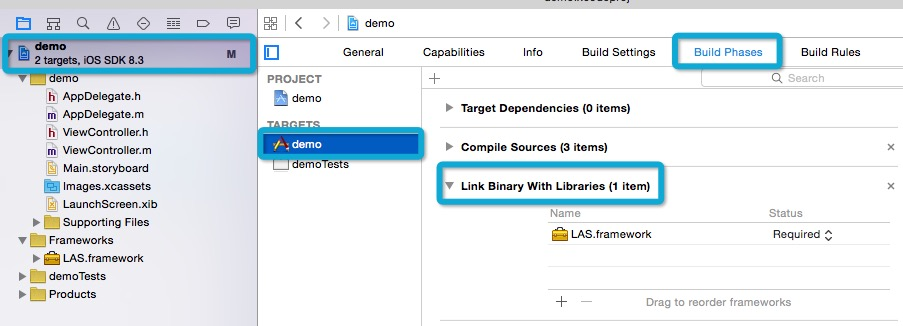
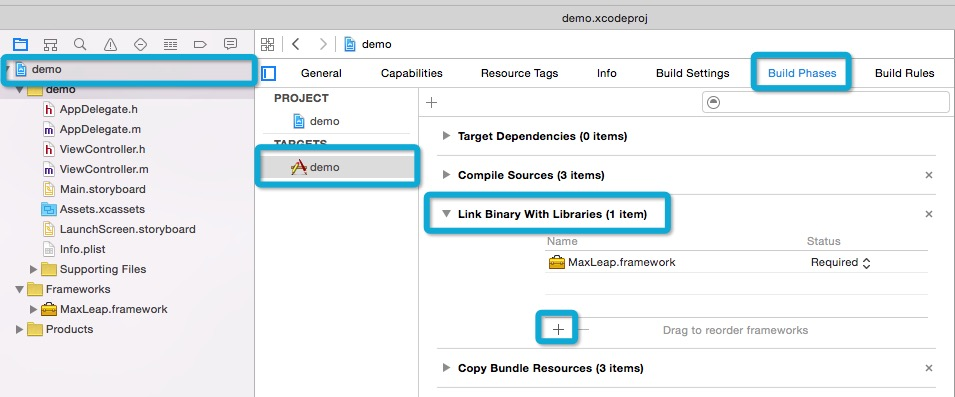
update iOS documents

diff --git a/zh/iOS/Guide/CloudData.md b/zh/iOS/Guide/CloudData.md
@@ -1,4 +1,4 @@
-#云数据
+# 云数据
 
 ## 简介
 
@@ -14,7 +14,7 @@ Cloud Data 将帮助您解决数据库基础设施的构建和维护，从而专
 * 可结合 Cloud Code 服务，实现云端数据的 Hook（详情请移步至[Cloud Code引导](ML_DOCS_GUIDE_LINK_PLACEHOLDER_JAVA)）
 
 ## Cloud Object
-存储在Cloud Data的对象称为`MLObject`，而每个`MLObject`被规划至不同的`class`中（类似“表”的概念)。`MLObject`包含若干键值对，且值为兼容JSON格式的数据。您无需预先指定每个 MLObject包含哪些属性，也无需指定属性值的类型。您可以随时向`MLObject`增加新的属性及对应的值，Cloud Data服务会将其存储至云端。
+存储在 Cloud Data 的对象称为`MLObject`，而每个 `MLObject` 被规划至不同的 `class` 中（类似“表”的概念)。`MLObject` 包含若干键值对，且值为兼容 JSON 格式的数据。您无需预先指定每个 `MLObject` 包含哪些属性，也无需指定属性值的类型。您可以随时向`MLObject`增加新的属性及对应的值，Cloud Data 服务会将其存储至云端。
 
 ### 新建
 假设我们要保存一条数据到`Comment`class，它包含以下属性：
@@ -27,7 +27,7 @@ isRead|false|布尔
 
 我们建议您使用驼峰式命名法来命名类名和字段名（如：NameYourclassesLikeThis, nameYourKeysLikeThis），让您的代码看起来整齐美观。
 
-`MLObject` 接口与 `NSMutableDictionary` 类似。我们有一个类 `MLDataManager`保存、删除 `MLObject`, 和拉取数据。现在我们使用 `MLDataManager` 来保存 `Comment`:
+`MLObject` 接口与 `NSMutableDictionary` 类似，但多了 `saveInBackground` 方法。现在我们保存一条 `Comment`:
 
 ```objective_c
 MLObject *myComment = [MLObject objectWithClassName:@"Comment"];
@@ -52,7 +52,7 @@ createdAt:"2011-06-10T18:33:42Z", updatedAt:"2011-06-10T18:33:42Z"
 
 注意：
 
-* **Comment表合何时创建:** 在运行以上代码时，如果云端（MaxLeap 的服务器，以下简称云端）不存在 Comment 数据表，那么 MaxLeap 将根据您第一次（也就是运行的以上代码）新建的 Comment 对象来创建数据表，并且插入相应数据。
+* **Comment表合何时创建:** 在运行以上代码时，如果云端（MaxLeap 的服务器，以下简称云端）不存在 `Comment` 数据表，那么 MaxLeap 将根据您第一次（也就是运行的以上代码）新建的 Comment 对象来创建数据表，并且插入相应数据。
 * **表中同一属性值类型一致:** 如果云端的这个应用中已经存在名为 `Comment` 的数据表，而且也包括 `content`、`pubUserId`、`isRead` 等属性，那么，新建comment对象时，对应属性的值的数据类型要和创建该属性时一致，否则保存数据将失败。
 * **MLObject是Schemaless的:** 您无需事先指定 `MLObject` 存在哪些键，只需在需要的时候增加键值对，后台便会自动储存它们。
 * **内建的属性:** 每个 MLObject 对象有以下几个保存元数据的属性是不需要开发者指定的。这些属性的创建和更新是由系统自动完成的，请不要在代码里使用这些属性来保存数据。
@@ -232,9 +232,7 @@ MLObject *object = [MLObject objectWithClassName:@"Comment"];
 
 注：MaxLeap Services 是通过 `Pointer` 类型来解决这种数据引用的，并不会将数据 a 在数据 b 的表中再额外存储一份，这也可以保证数据的一致性。
 
-#### 一对多关系
-
-##### 使用 `Pointer` 实现
+#### 使用 `Pointer` 实现
 
 例如：一条微博信息会有多条评论。创建一条微博，并添加一条评论，您可以这样写：
 
@@ -1104,12 +1102,11 @@ MLQuery *query = [MLUser query];
 ```
 
 #####自动创建匿名用户
-在无网络请求的情况下，也可以自动为您创建匿名用户，以便您能在应用程序开启之后立即与您的用户互动。如果您启用在应用程序开启时自动创建匿名用户的功能，则 `[MLUser currentUser]` 将不会为 `nil`。首次保存用户或与该用户相关的任何对象时，将在云中自动创建用户。在此之前，该用户的对象 ID 为 nil。启用自动创建用户功能将使得把数据与您的用户关联变得简单。例如，在您的 `application:didFinishLaunchingWithOptions:` 函数中，您可以写：
+在无网络请求的情况下，也可以自动为您创建匿名用户，以便您能在应用程序开启之后立即与您的用户互动。如果您启用在应用程序开启时自动创建匿名用户的功能，则 `[MLUser currentUser]` 将不会为 `nil`。首次保存用户或与该用户相关的任何对象时，将在云中自动创建用户。在此之前，该用户的对象 ID 为 `nil`。启用自动创建用户功能将使得把数据与您的用户关联变得简单。例如，在您的 `application:didFinishLaunchingWithOptions:` 函数中，您可以写：
 
 ```objective_c
 [MLUser enableAutomaticUser];
 [[MLUser currentUser] incrementKey:@"RunCount"];
-[]
 [[MLUser currentUser] saveInBackgroundWithBlock:^(BOOL succeeded, NSError *error) {
     // Handle success or failure here ...
 }];
@@ -1218,7 +1215,7 @@ FacebookSDK v4.x
 
 MaxLeap 用户可通过以下两种主要方法使用 Facebook：(1) 以 Facebook 用户身份登录（注册），并创建 `MLUser`，或者 (2) 将 Facebook 与已有的 `MLUser` 关联。
 
-####    登录并注册新 MLUser
+#### 登录并注册新 MLUser
 
 `MLUser` 提供一种方法让您的用户可以通过 Facebook 登录或注册。这可以通过采用 `logInWithPermissions:` 方法来完成，例如：
 

diff --git a/zh/iOS/GettingStarted/HelpCenter_ExistingProject.md b/zh/iOS/GettingStarted/HelpCenter_ExistingProject.md
@@ -3,7 +3,7 @@
 
 1. 下载并解压缩 SDK
 
-	请确认您使用的是Xcode最新版本（5.0+），目标平台为iOS 6.0 或者更高版本。
+	请确认您使用的是 Xcode 最新版本（7.0+），目标平台为iOS 6.0 或者更高版本。
 
 	<a class="download-sdk" href="https://raw.githubusercontent.com/LeapAppServices/LAS-SDK-Release/master/iOS/v1.5.0/LASAll-v1.5.0.zip">下载SDK</a>
 
@@ -18,18 +18,18 @@
 
 3. 添加依赖
 
-	点击Targets→应用名→“Build Phases”栏。</br>
-	将“Link Binary With Libraries”如下图展开。
-	
-	<p class="image-wrapper">
-	![add_dependencies](../../../images//add_dependencies.png)
-	
-    确保“Enable Modules (C and Objective-C)” 和 “Link Frameworks Automatically”的生成设置为Yes。
+	确保“Enable Modules (C and Objective-C)” 和 “Link Frameworks Automatically”的生成设置为Yes。
     
     <p class="image-wrapper">
     ![enable_modules](../../../images//enable_modules.png)
+
+	点击 Targets → 应用名 → “Build Phases” 栏。</br>
+	将 “Link Binary With Libraries” 如下图展开。
+	
+	<p class="image-wrapper">
+	![add_dependencies](../../../images//add_dependencies.png)
     
-	点击“Link Binary With Libraries”左下角+号按钮，添加下列框架：
+	点击 “Link Binary With Libraries” 左下角 + 号按钮，添加下列框架：
 	
 	StoreKit.framework</br>
 	MobileCoreServices.framework</br>
@@ -89,9 +89,9 @@
 	}
 	```
 
-	这段代码目的是在云端创建一条类名为 `Person` 的数据。如果云端还没有 `Person` 这个类，则会先创建这个类，然后再插入数据。
+	这段代码目的是在云端创建一条类名为 `People` 的数据。如果云端还没有 `People` 这个类，则会先创建这个类，然后再插入数据。
 
-	运行您的应用。然后可以在 Dev Center -> Data 中看到刚创建的数据。
+	运行您的应用，然后可以在 Dev Center -> Data 中看到刚创建的数据。
 
 	![imgSDKQSTestAddObj](../../../images/imgSDKQSTestAddObj.png)
 

diff --git a/zh/iOS/GettingStarted/ExistingProject.md b/zh/iOS/GettingStarted/ExistingProject.md
@@ -15,17 +15,17 @@
 
 3. 添加依赖
 
-	点击Targets→应用名→“Build Phases”栏。</br>
-	将“Link Binary With Libraries”如下图展开。
+	确保“Enable Modules (C and Objective-C)” 和 “Link Frameworks Automatically”的生成设置为Yes。
+    
+    <p class="image-wrapper">
+    ![enable_modules](../../../images/enable_modules.png)
+
+	点击 Targets → YourAppName → "Build Phases" 栏。</br>
+	展开 “Link Binary With Libraries”，如下图：
 	
 	<p class="image-wrapper">
 	![add_dependencies](../../../images/add_dependencies.png)
 	
-    确保“Enable Modules (C and Objective-C)” 和 “Link Frameworks Automatically”的生成设置为Yes。
-    
-    <p class="image-wrapper">
-    ![enable_modules](../../../images/enable_modules.png)
-    
 	点击“Link Binary With Libraries”左下角+号按钮，添加下列框架：
 	
 	MobileCoreServices.framework</br>
@@ -36,7 +36,7 @@
 
 ## 连接云端应用
 
-打开AppDelegate.m文件，并将如下import添加到文件顶部：
+打开 `AppDelegate.m` 文件，并将如下import添加到文件顶部：
 
 ```objc
 #import <MaxLeap/MaxLeap.h>
@@ -66,12 +66,12 @@
 [MaxLeap setApplicationId:@"your_application_id" clientKey:@"your_client_key"];
 
 // 创建一条数据
-MLObject *testObject = [MLObject objectWithClassName:@"Person"];
+MLObject *testObject = [MLObject objectWithClassName:@"People"];
 testObject[@"Name"] = @"David Wang";
 [testObject saveInBackgroundWithBlock:nil];
 ```
 
-这段代码目的是在云端创建一条类名为 `Person` 的数据。如果云端还没有 `Person` 这个类，则会先创建这个类，然后再插入数据。
+这段代码目的是在云端创建一条类名为 `People` 的数据。如果云端还没有 `People` 这个类，则会先创建这个类，然后再插入数据。
 
 运行您的应用。然后可以在 开发者中心 -> 云存储 中看到刚创建的数据。
 

diff --git a/zh/iOS/GettingStarted/NewProject.md b/zh/iOS/GettingStarted/NewProject.md
@@ -3,7 +3,7 @@
 
 1. 下载模板项目并解压
 
-请确保您使用的是最新的 Xcode (v5.0+), 并且目标平台版本为 iOS 6.0 或者更高。
+请确保您使用的是最新的 Xcode (v7.0+), 并且目标平台版本为 iOS 6.0 或者更高。
 
 <a class="download-sdk" href="https://raw.githubusercontent.com/LeapAppServices/LAS-SDK-Release/master/iOS/v1.5.0/LASStarterProject.zip">下载模板项目</a>
 
@@ -17,7 +17,7 @@
 [MaxLeap setApplicationId:@"your_application_id" clientKey:@"your_client_key"];
 ```
 
-把 `your_application_id` 和 `your_client_key` 替换成您自己 app 的。
+把 `your_application_id` 和 `your_client_key` 替换成您自己应用的。
 
 3. 现在可以运行了。
 
@@ -35,12 +35,12 @@
 [MaxLeap setApplicationId:@"your_application_id" clientKey:@"your_client_key"];
 
 // 创建一条数据
-MLObject *testObject = [MLObject objectWithClassName:@"Person"];
+MLObject *testObject = [MLObject objectWithClassName:@"People"];
 testObject[@"foo"] = @"bar";
 [testObject saveInBackgroundWithBlock:nil];
 ```
 
-这段代码试图在云端创建一条类名为 `Person` 的数据。如果云端还没有 `Person` 这个类，则会先创建这个类，然后再插入数据。
+这段代码试图在云端创建一条类名为 `People` 的数据。如果云端还没有 `People` 这个类，则会先创建这个类，然后再插入数据。
 
 运行您的应用。然后可以在 Dev Center -> Data 中看到刚创建的数据。
 

diff --git a/en/iOS/GettingStarted/ExistingProject.md b/en/iOS/GettingStarted/ExistingProject.md
@@ -14,17 +14,17 @@
 	![drag_sdk_to_project](../../../images/drag_sdk_to_project.png)
 
 3. Add the dependencies
+	
+	Make sure "Enable Modules (C and Objective-C)" and "Link Frameworks Automatically" build settings are YES.
+    
+    <p class="image-wrapper">
+    ![enable_modules](../../../images/enable_modules.png)
 
 	Click on Targets → Your app name → and then the 'Build Phases' tab.</br>
 	Expand 'Link Binary With Libraries' as shown.
 	
 	<p class="image-wrapper">
 	![add_dependencies](../../../images/add_dependencies.png)
-	
-    Make sure "Enable Modules (C and Objective-C)" and "Link Frameworks Automatically" build settings are YES.
-    
-    <p class="image-wrapper">
-    ![enable_modules](../../../images/enable_modules.png)
     
 	Click the + button in the bottom left of the 'Link Binary With Libraries' section and add the following libraries:
 	
